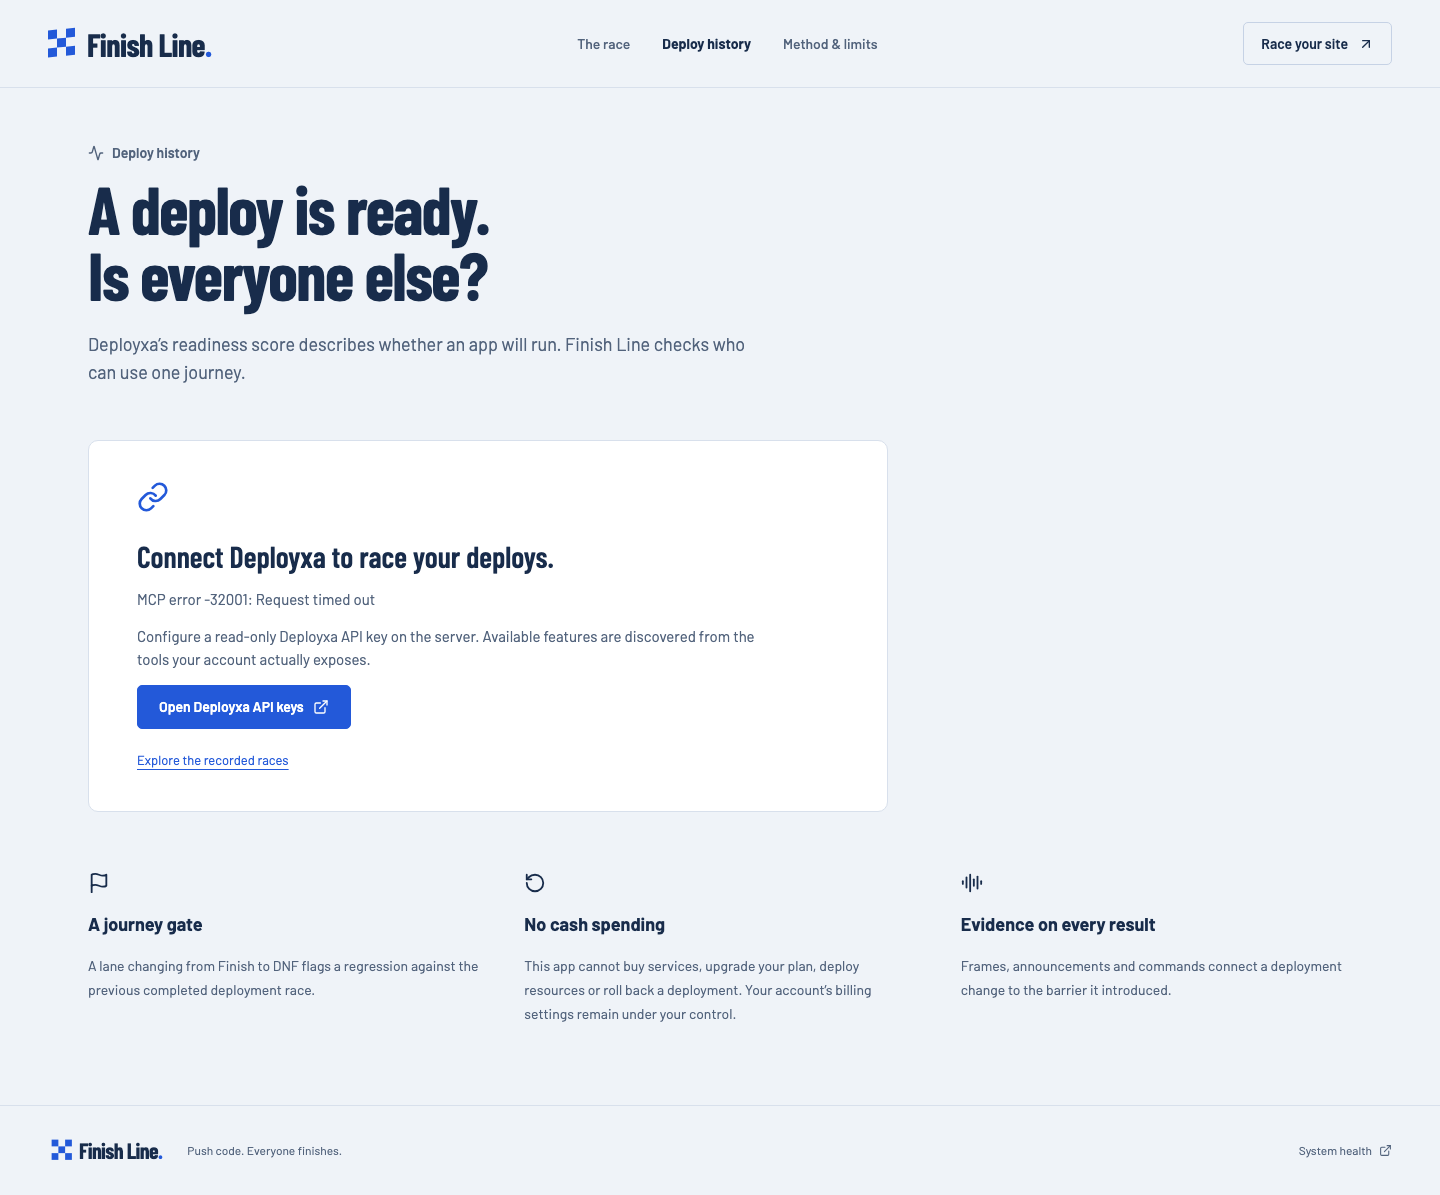
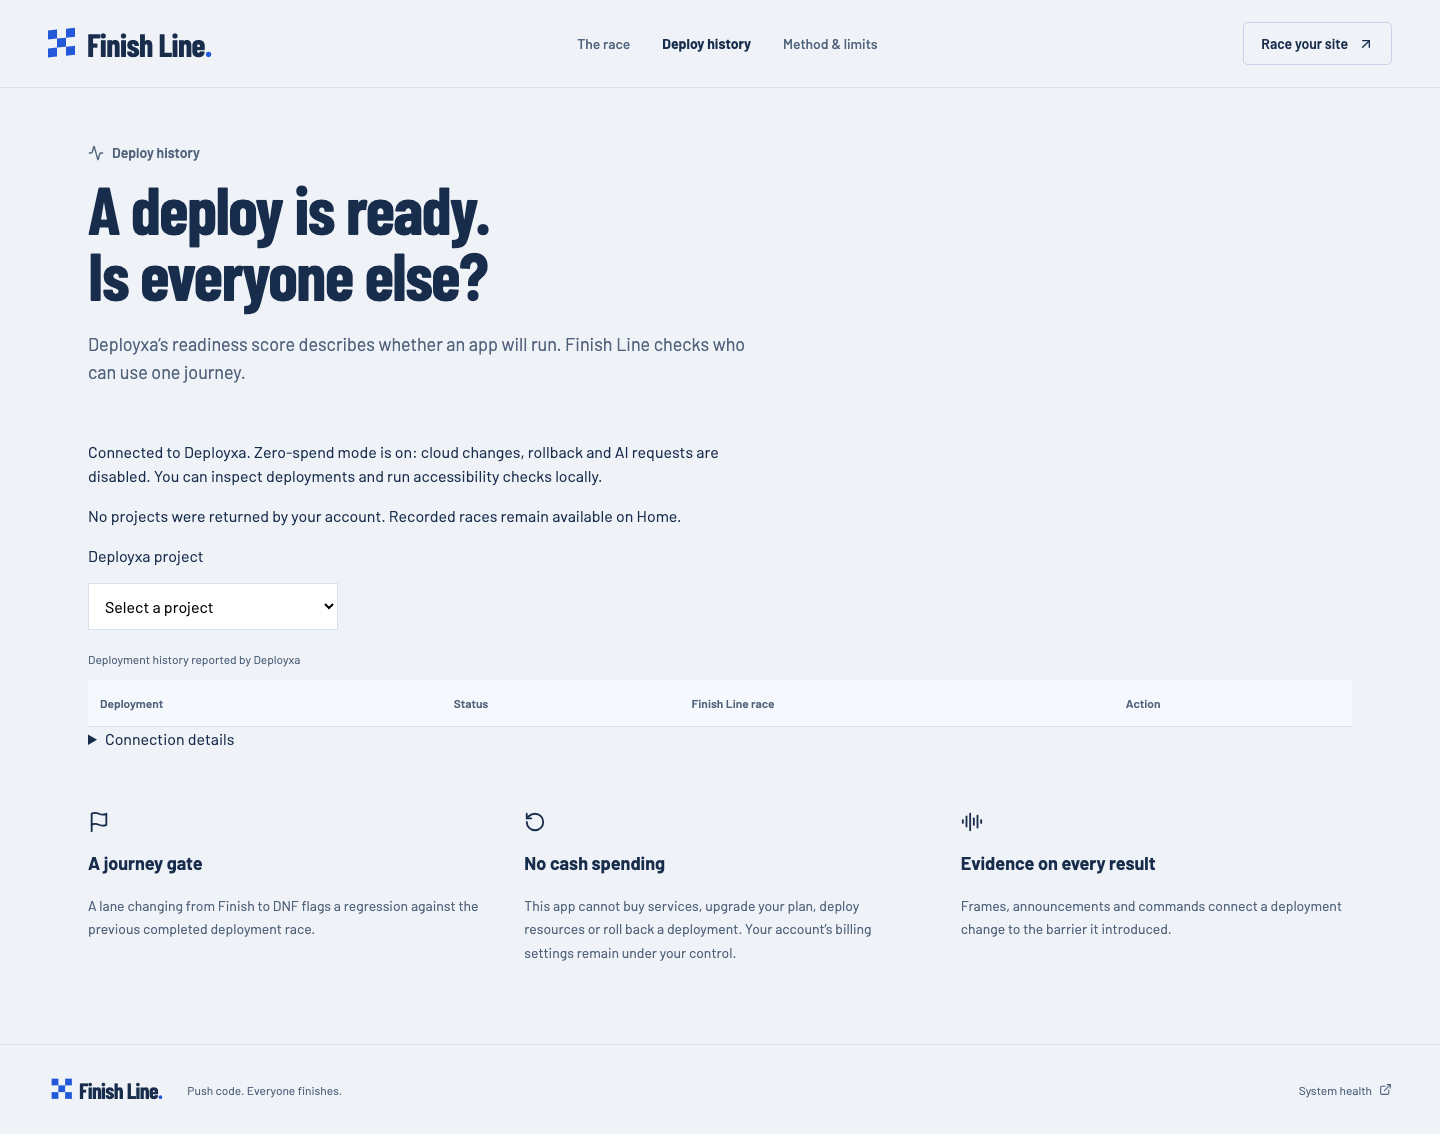
Recover transient metadata connections and finalize keyboard picker evidence

diff --git a/apps/web/src/main.tsx b/apps/web/src/main.tsx
@@ -1265,12 +1265,10 @@ function JourneyPicker({ onCreated }: { onCreated: (id: string) => void }) {
                     !!busy ||
                     (journey.length === 3 && !selected.includes(e.number))
                   }
-                  aria-label={`${selected.includes(e.number) ? prefix.length + selected.indexOf(e.number) + 1 : e.number}. Select ${e.label}`}
+                  aria-label={`${e.number}. Select ${e.label}${selected.includes(e.number) ? `, step ${prefix.length + selected.indexOf(e.number) + 1}` : ""}`}
                   aria-pressed={selected.includes(e.number)}
                 >
-                  {selected.includes(e.number)
-                    ? prefix.length + selected.indexOf(e.number) + 1
-                    : e.number}
+                  {e.number}
                 </button>
               ))}
           </div>
@@ -1641,6 +1639,8 @@ function Method() {
 function Deploys() {
   const [data, setData] = useState<{
     connected: boolean;
+    connecting: boolean;
+    configured: boolean;
     reason: string;
     capabilities: string[];
     projects: Record<string, unknown>[];
@@ -1652,9 +1652,26 @@ function Deploys() {
   }>();
   const [error, setError] = useState("");
   useEffect(() => {
-    api<NonNullable<typeof data>>("/api/deployxa/projects")
-      .then(setData)
-      .catch((e) => setError(e.message));
+    let active = true;
+    let timer: ReturnType<typeof setTimeout>;
+    async function load() {
+      try {
+        const next = await api<NonNullable<typeof data>>(
+          "/api/deployxa/projects",
+        );
+        if (!active) return;
+        setData(next);
+        if (next.connecting && !next.connected)
+          timer = setTimeout(() => void load(), 2000);
+      } catch (e) {
+        if (active) setError((e as Error).message);
+      }
+    }
+    void load();
+    return () => {
+      active = false;
+      clearTimeout(timer);
+    };
   }, []);
   async function select(id: string) {
     setSelected(id);
@@ -1696,15 +1713,17 @@ function Deploys() {
             <LinkIcon size={32} />
           </div>
           <h2>
-            {data
-              ? "Connect Deployxa to race your deploys."
-              : "Checking the Deployxa connection…"}
+            {!data || data.connecting
+              ? "Checking the Deployxa connection…"
+              : data.configured
+                ? "Deployxa is unavailable right now."
+                : "Connect Deployxa to race your deploys."}
           </h2>
           <p>{data?.reason ?? "Looking for a server-side connection."}</p>
           <p>
-            Configure a read-only Deployxa API key on the server. Available
-            features are discovered from the tools your account actually
-            exposes.
+            {data?.configured
+              ? "The key is configured on the server. Connection attempts are bounded; recorded races remain available."
+              : "Configure a read-only Deployxa API key on the server. Available features are discovered from the tools your account actually exposes."}
           </p>
           <a
             className="primary"

diff --git a/apps/web/server/deployxa.ts b/apps/web/server/deployxa.ts
@@ -30,6 +30,25 @@ export class Deployxa {
   client?: Client;
   tools: Tool[] = [];
   error = "DEPLOYXA_API_KEY is not configured.";
+  connecting = false;
+  async start(
+    key = process.env.DEPLOYXA_API_KEY,
+    pause = (ms: number) =>
+      new Promise<void>((resolve) => setTimeout(resolve, ms)),
+  ) {
+    if (!key) return false;
+    this.connecting = true;
+    this.error = "Connecting to Deployxa…";
+    try {
+      for (let attempt = 0; attempt < 3; attempt++) {
+        if (await this.connect(key)) return true;
+        if (attempt < 2) await pause(1000 * (attempt + 1));
+      }
+      return false;
+    } finally {
+      this.connecting = false;
+    }
+  }
   async connect(key = process.env.DEPLOYXA_API_KEY, recordDiscovery = true) {
     if (!key) return false;
     const client = new Client({ name: "finish-line", version: "0.1.0" });
@@ -81,6 +100,8 @@ export class Deployxa {
       return true;
     } catch (e) {
       await client.close().catch(() => {});
+      this.client = undefined;
+      this.tools = [];
       this.error = e instanceof Error ? e.message : "MCP connection failed";
       return false;
     }

diff --git a/tests/deployxa.test.ts b/tests/deployxa.test.ts
@@ -15,6 +15,22 @@ function connection(tools: Tool[]) {
 
 describe("Deployxa read-only integration", () => {
   it.each([
+    [false, false, true],
+    [false, false, false],
+  ])(
+    "bounds startup retries and clears connection progress (%j)",
+    async (...outcomes) => {
+      const client = new Deployxa();
+      const connect = vi.spyOn(client, "connect");
+      for (const result of outcomes) connect.mockResolvedValueOnce(result);
+      const pause = vi.fn().mockResolvedValue(undefined);
+      expect(await client.start("test-key", pause)).toBe(outcomes.at(-1));
+      expect(connect).toHaveBeenCalledTimes(3);
+      expect(pause.mock.calls.map((call) => call[0])).toEqual([1000, 2000]);
+      expect(client.connecting).toBe(false);
+    },
+  );
+  it.each([
     "deployxa_create_deployment",
     "deployxa_purchase_domain",
     "deployxa_rollback_deployment",

diff --git a/scripts/check-picker.ts b/scripts/check-picker.ts
@@ -96,6 +96,12 @@ try {
       })
       .waitFor();
     await choose("#checkout-button");
+    const markerNumbers = await page.locator(".scan-marker").allTextContents();
+    assert.equal(
+      new Set(markerNumbers).size,
+      markerNumbers.length,
+      "Screenshot control numbers must stay unique after selection",
+    );
     assert(
       await previewButton.isDisabled(),
       "A complete three-step journey needs no further replay",
@@ -158,6 +164,7 @@ try {
       width,
       previewPrefixes: previews,
       keyboardSelection: true,
+      uniqueControlNumbers: true,
       previewFocusReturned: true,
       authorizationRequired: true,
       submittedSelectors: submitted.map((step) => step.target.css),

diff --git a/apps/web/server/index.ts b/apps/web/server/index.ts
@@ -298,6 +298,8 @@ app.post(
 );
 app.get("/api/deployxa/projects", async () => ({
   connected: !!deployxa.client,
+  connecting: deployxa.connecting,
+  configured: !!process.env.DEPLOYXA_API_KEY,
   reason: deployxa.error,
   capabilities: deployxa.tools.map((t) => t.name),
   projects: deployxa.has("deployxa_list_projects")
@@ -509,7 +511,7 @@ await app.listen({ port, host: process.env.HOST ?? "127.0.0.1" });
 void getBrowser().catch((e) =>
   app.log.error({ error: String(e) }, "Chromium unavailable"),
 );
-void deployxa.connect();
+void deployxa.start();
 process.on("SIGTERM", () => {
   void app.close().then(() => process.exit(0));
 });

diff --git a/scripts/check-deployxa.ts b/scripts/check-deployxa.ts
@@ -9,7 +9,7 @@ import {
 // Inspection only: no create, deploy, upgrade, database or billing-write calls.
 const client = new Deployxa();
 try {
-  if (!(await client.connect())) throw new Error(client.error);
+  if (!(await client.start())) throw new Error(client.error);
   const quota = (await client.call(
     "deployxa_get_organization_quota",
   )) as Record<string, unknown>;

diff --git a/docs/STATUS.md b/docs/STATUS.md
@@ -5,14 +5,15 @@
 - Combined Fastify + Chromium service, six isolated input-method contexts, two-race queue, SSE progress, durable file fallback and Postgres adapter.
 - Strict shared schemas, measured costs, explicitly estimated clock, deterministic reasons/fixes, frame storage and evidence drawer.
 - Track-first Home, replay, results table, share links, method page, Deployxa connection state, screenshot/list journey picker with authorized action replay, edit/reset, speech/captions/mute/rate and reduced motion.
-- Ten fixtures, 60 matrix expectations, 33 unit/browser/integration regression tests. The matrix and reports are published inside the app. Picker flows pass at 1440px/390px/320px, with zero axe violations and no overflow (docs/picker-check.json).
-- Final official Playwright Linux ARM64 container builds, Chromium launches, all 33 regressions and all 60 matrix expectations pass. Compressed JSON decodes correctly and the actual rollback response is 403. Evidence: docs/container-check.json and docs/matrix-linux.json.
+- Ten fixtures, 60 matrix expectations, 35 unit/browser/integration regression tests. The matrix and reports are published inside the app. Picker flows pass at 1440px/390px/320px, with zero axe violations and no overflow (docs/picker-check.json).
+- Official Playwright Linux ARM64 container builds, Chromium launches, all 35 regressions and all 60 matrix expectations pass. Compressed JSON decodes correctly and the actual rollback response is 403. Evidence: docs/container-check.json and docs/matrix-linux.json.
 - Real recorded controlled original/repaired bakery runs: 4/6 and 6/6. Homepage self-race retained separately; no builder results invented.
 - A real public example.com journey finishes all six lanes. Its API check verifies live progress, done delivery, cache deduplication, SSRF rejection and both MCP tools.
 - Local Postgres 14: actual race/lane upserts and JPEG round trip pass; unreachable-DB fallback also checked.
 - axe: zero violations across all main routes, race and evidence drawer. 320px/390px reflow passes. Final local Lighthouse 13.5/Chrome 155: accessibility 100, median performance 99 over three sequential runs (99/100/99). Earlier slower/older-tool reports are retained; see docs/lighthouse-summary.json.
 - Race JSON transfer reduced from 32,299 to 5,691 bytes with Brotli; gzip and identity negotiation pass. Critical styles are inline and deep links serve compressed HTML (docs/delivery-check.json).
 - Deployxa CLI v1.0.8 runs. Authenticated discovery returns 66 tools. Read-only quota, settings, project list and repository connection checks pass. Actual status/readiness tool aliases are supported. A fixed metadata allowlist blocks cloud writes and AI requests; rollback returns 403 before any cloud call. Actual HTTP safeguards pass (docs/zero-spend-check.json). Deploy race triggers, gate and CI hook still need an existing deployment to verify.
+- Startup metadata discovery retries at most three times after transient failures. The deploy page polls only while connecting and distinguishes a configured-but-unavailable connection from a missing key. The final local server authenticated successfully and returned all 66 tools plus the actual empty project list.
 - Submission draft and narrated demo script in SUBMISSION.md. A 30-second silent GIF and a 2:53 MP4 of actual local app footage are retained, with burned-in captions, SRT and transcript. Narration uses the Mac’s offline computer voice; no human participant or hosted deployment is represented. Screenshots, quality reports and actual timelines retained.
 
 ## Pending external inputs

diff --git a/README.md b/README.md
@@ -117,6 +117,8 @@ Source checked: [Deployxa MCP documentation](https://deployxa.com/docs/mcp-serve
 
 Configure `DEPLOYXA_API_KEY` server-side with read-only scope. Authenticated discovery returned **66 tools** on 19 October; actual schemas are in `docs/deployxa-tools.json`. The account exposes `deployxa_get_deployment` and `deployxa_get_readiness`, rather than the brief’s status/score names. The client resolves those compatibility names only when an actual tool is discovered and maps its input schema. A fixed allowlist permits audited metadata reads only: remote read-only hints cannot authorize AI requests or any writes. [Zero-spend safeguards](docs/ZERO-SPEND.md).
 
+Metadata discovery retries at most three times after a transient startup failure. Recorded races remain available while it connects, and the deploy page refreshes its state until the bounded attempts finish.
+
 `pnpm check:deployxa` performs only read operations and saves a sanitized account report to `docs/deployxa-check.json`. The verified account is Free, has no projects, reports $0 usage and has auto-top-up disabled. However, it reports a **$50 usage ceiling**, not an enforced $0 cap. No cloud resources were created because the user requires zero spend. The repository provider is not connected. Managed databases and preview deployments are excluded from the free plan. Verify a hard zero-spend limit and free deployment terms before provisioning; do not upgrade, add paid resources or enable top-up. [Current pricing](https://deployxa.com/pricing).
 
 Deploy history lists reported deployments and race links. Race this deploy waits up to 120 seconds for a healthy URL, uses the previous saved journey or an explicitly supplied one, then queues a race. The gate compares against the previous completed race for the same project; only Finish → DNF is a regression. Unknown requires review. Log streaming and automatic attachment of runtime log excerpts have not been implemented.

diff --git a/docs/COMPLETION.md b/docs/COMPLETION.md
@@ -8,7 +8,7 @@ The local product is working and tested. The entire hackathon submission is **no
 | Three-step screenshot/list picker | Working, including action replay, hidden Checkout, edit/reset and keyboard focus | docs/picker-check.json; screenshots at 1440/390/320px |
 | Playback, evidence, fix prompts, share link, reduced motion | Working | docs/a11y-results.json; retained timelines and JPEGs |
 | Original/repaired controlled bakery and homepage self-check | Recorded, 4/6 → 6/6; self-check 6/6 | benchmark/runs/2026-10-19/ |
-| Unit/browser regressions | 33 pass | pnpm test |
+| Unit/browser regressions | 35 pass | pnpm test |
 | Automated accessibility and mobile reflow | Zero axe violations; no document overflow | docs/a11y-results.json; docs/picker-check.json |
 | Lighthouse | Final local median performance 99 / accessibility 100; runs 99/100/99 | docs/lighthouse.json; docs/lighthouse-summary.json; earlier attempts retained |
 | Response delivery | Valid Brotli/gzip/identity negotiation, compressed deep links, no blocking CSS requests | docs/delivery-check.json |
